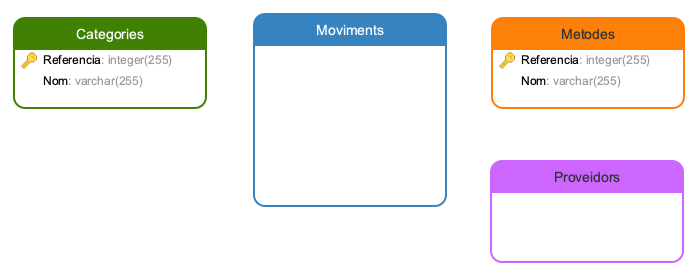
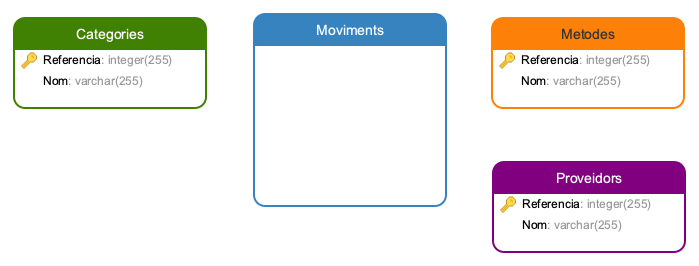
ceació de la opció de proveïdors

diff --git a/scripts.js b/scripts.js
@@ -37,7 +37,7 @@ $(document).ready(function(){
     });
     //CLICK ON form's submit:
     //SHOW .php in .content:
-    $('#metode_list form').submit(function(event) {
+    $('#proveidor_list form').submit(function(event) {
       console.log('Afegir proveïdor');
       event.preventDefault();
       var formValues = $(this).serialize();

diff --git a/proveidor.php b/proveidor.php
@@ -1,8 +1,83 @@
+<!DOCTYPE html>
+<html>
+    <head>
+        <meta charset="UTF-8">
+        <title>Estalviar i Més</title>
+        <meta name="viewport" content="width=device-width, initial-scale=1.0">
+        <link href="https://fonts.googleapis.com/css?family=Mali" rel="stylesheet">
+        <link rel="stylesheet" href="style.css" type="text/css">
+        <!--<script   src="https://code.jquery.com/jquery-3.3.1.js"   integrity="sha256-2Kok7MbOyxpgUVvAk/HJ2jigOSYS2auK4Pfzbm7uH60="   crossorigin="anonymous"></script>-->
+        <script src="jQuery_3.3.1.js"></script>
+        <script type="text/javascript" src="scripts.js"></script>
+    </head>
+    <body>
+        <h3>Llistat de proveïdors creats:</h3>   
 <?php
-
-/* 
- * To change this license header, choose License Headers in Project Properties.
- * To change this template file, choose Tools | Templates
- * and open the template in the editor.
- */
-
+    $conexion= mysqli_connect("127.0.0.1","root","localtestdeveloper","EstalviarMes");
+    if(isset($_POST["Nom"])){ //en cas de què s'hagi enviat el formulari
+          //aquí afegir dades a la taula Mètode
+                $insert="INSERT INTO Proveidors VALUES (";
+                $insert.="'".$_POST["Numero_proveidor"]."'".",";
+                $insert.="'".$_POST["Nom"]."'";
+                $insert.=")";
+                //echo $insert;
+                $exec= mysqli_query($conexion, $insert);
+//        if (!$check1_res) {
+//            printf("Error: %s\n", mysqli_error($conexion));
+//            exit();
+//        }
+          goto a;
+    }
+    else{ //(else -> en cas de què NO s'hagi enviat)
+        a:
+        $sel="SELECT * FROM Proveidors";
+        $exec= mysqli_query($conexion, $sel);
+//        if (!$check1_res) {
+//            printf("Error: %s\n", mysqli_error($conexion));
+//            exit();
+//        }
+?>
+        <div id="proveidor_list">
+            <form action="proveidor.php" method="post" >
+                <table>
+                    <thead>
+                    <tr>
+                        <th>Posició</th>
+                        <th>Nom</th>
+                        <th>Esborrar</th>
+                    </tr>
+                </thead>
+                <tbody>        
+<?php
+while($registre= mysqli_fetch_array($exec)){
+    $cont = $registre[0];
+    $cont=$cont+1;
+?>
+                    <tr>
+                        <td><?php echo($registre[0]);?></td><!--Referencia-->
+                        <td><?php echo($registre[1]);?></td><!--Nom-->
+                        <td><!-- esborrar registre -->    
+                        </td>
+                    </tr>
+<?php } ?>
+                    <tr>
+                        <td><!-- apareix número automàtic -->
+                            <input class="boton" type="text" size="2" name="Numero_proveidor" readonly value="<?php echo($cont);?>">
+                        </td>
+                        <td><!-- s'introdueix nou mètode -->
+                            Nom:<input type="text" size="20" name="Nom">
+                        </td>
+                        <td><!-- Esborrar formulari -->
+                            <input type="reset" class="boto" value="Esborrar">
+                        </td>
+                        <td><!-- Acceptar nou mètode -->
+                            <input type="submit" class="boto" value="Afegir" name="afegir">
+                        </td>
+                    </tr>
+            </tbody>
+        </table>
+    </form>
+<?php } ?>     
+</div>
+    </body>
+</html>
